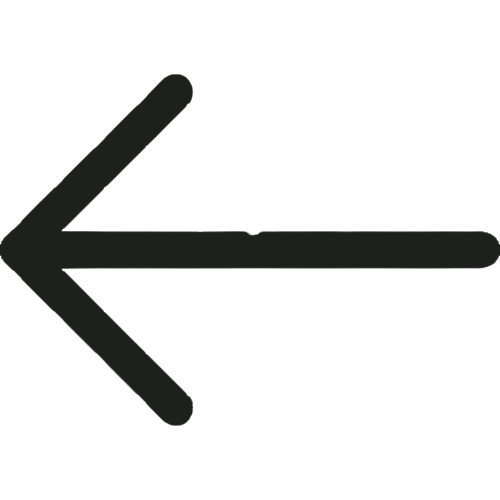
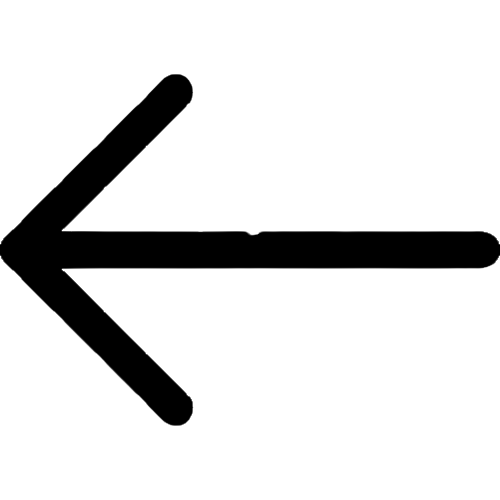
Done, all working

Changed region(s): [[0.0, 0.15, 1.0, 0.87]]

diff --git a/src/view/game_view.py b/src/view/game_view.py
@@ -3,7 +3,7 @@ from algorithms.algorithm_stats import AlgorithmStats
 
 from model.game_model import Maze, Position, Direction
 from view.view_utils import EdgeFactory, MazeEdge
-from view.view_const import BACKGROUND, COLOR, INFO, BACK_SPACE, ESC, ENTER, ROBOT, TIPS, SQUARE_WIDTH, ARROW_WIDTH, UP_ARROW, DOWN_ARROW, LEFT_ARROW, RIGHT_ARROW, BUTTON_WIDTH
+from view.view_const import GREEN, BLUE, BACKGROUND, COLOR, INFO, BACK_SPACE, ESC, ENTER, RED, ROBOT, TIPS, SQUARE_WIDTH, ARROW_WIDTH, UP_ARROW, DOWN_ARROW, LEFT_ARROW, RIGHT_ARROW, BUTTON_WIDTH
 
 class View:
     def __init__(self, surface: pygame.Surface, model = None):
@@ -48,13 +48,15 @@ class MazeView(View):
         passage: MazeEdge = EdgeFactory.no_wall()
         wall: MazeEdge = EdgeFactory.real_wall()
 
+        # pygame.draw.rect(self._surface, COLOR, pygame.Rect(self.__left, MazeView.TOP, SQUARE_WIDTH * self.model.size, SQUARE_WIDTH * self.model.size))
+
         # Starting house
         (initial_x, initial_y) = (self.model.init_robot_pos.column * SQUARE_WIDTH + self.__left, self.model.init_robot_pos.row * SQUARE_WIDTH + MazeView.TOP)
-        pygame.draw.rect(self._surface, (50, 0, 150), pygame.Rect(initial_x, initial_y, SQUARE_WIDTH, SQUARE_WIDTH))
+        pygame.draw.rect(self._surface, BLUE, pygame.Rect(initial_x, initial_y, SQUARE_WIDTH, SQUARE_WIDTH))
 
         # Ending house
         (final_x, final_y) = (self.model.final_robot_pos.column * SQUARE_WIDTH + self.__left, self.model.final_robot_pos.row * SQUARE_WIDTH + MazeView.TOP)
-        pygame.draw.rect(self._surface, (50, 150, 150), pygame.Rect(final_x, final_y, SQUARE_WIDTH, SQUARE_WIDTH))
+        pygame.draw.rect(self._surface, GREEN, pygame.Rect(final_x, final_y, SQUARE_WIDTH, SQUARE_WIDTH))
 
         # Horizontal Lines
         for i in range(self.model.size):
@@ -174,7 +176,7 @@ class GameView(View):
     def _build(self):
         self.maze_view = MazeView(self._surface, self.model[0].maze)
         self.moves_view = MovesView(self._surface, (self.model[1], self.model[0].no_moves))
-        self.buttons = [(400, 600), (450, 600), (500, 600), (550, 600), (700, 600), (750, 600), (1100, 20), (1000, 20), (900, 20)]
+        self.buttons = [(400, 650), (450, 650), (500, 650), (550, 650), (700, 650), (750, 650), (1100, 20), (1000, 20), (900, 20)]
         self.button_widths = [40, 40, 40, 40, 40, 40, 60, 60, 60]
 
     def draw_static(self):
@@ -187,16 +189,15 @@ class GameView(View):
         self.maze_view.draw_dynamic(position)
 
     def draw_win(self):
-        surface_w, surface_h = self._surface.get_size()
-        # pygame.draw.rect(self._surface, (255, 200, 255), pygame.Rect((surface_w - 400) // 2, 200, 400, 100), border_radius=50)
-        text = pygame.font.Font(None, 64).render("Maze Complete!", True, (255,0,50), BACKGROUND)
+        surface_w, _ = self._surface.get_size()
+        text = pygame.font.Font(None, 64).render("Maze Complete!", True, RED, COLOR)
         self._surface.blit(text, ((surface_w - text.get_size()[0]) // 2, 200))
 
     def draw_buttons(self):
-        inside_color_hover = (150, 150, 100)
-        inside_color_normal = (250, 250, 200)
-        color_normal = (50, 50, 50)
-        color_hover = COLOR
+        inside_color_hover = GREEN
+        inside_color_normal = BLUE
+        color_normal = COLOR
+        color_hover = (200, 200, 200)
         symbols = [UP_ARROW, DOWN_ARROW, LEFT_ARROW, RIGHT_ARROW, BACK_SPACE, ENTER, ESC, TIPS, INFO]
         for i in range(9):
             if self.mouse_in_button(i):
@@ -217,8 +218,8 @@ class GameView(View):
 
     def tips(self, tip: str):
         text = pygame.font.Font(None, 30).render(tip, True, COLOR, BACKGROUND)
-        self._surface.blit(text, (805, 105))
-        pygame.draw.rect(self._surface, COLOR, pygame.Rect(800, 100, 350, 100), width=2, border_radius=10)
+        self._surface.blit(text, (825, 105))
+        pygame.draw.rect(self._surface, COLOR, pygame.Rect(820, 100, 350, 100), width=2, border_radius=10)
 
     def instructions(self):
         text = []
@@ -233,11 +234,11 @@ class GameView(View):
         text.append(pygame.font.Font(None, 30).render(" - I or lightbulb button for tips.", True, COLOR, BACKGROUND))
         y = 105
         for sentence in text:
-            self._surface.blit(sentence, (805, y))
+            self._surface.blit(sentence, (825, y))
             y += 30
 
         
-        pygame.draw.rect(self._surface, COLOR, pygame.Rect(800, 100, 350, 300), width=2, border_radius=10)
+        pygame.draw.rect(self._surface, COLOR, pygame.Rect(820, 100, 350, 300), width=2, border_radius=10)
 
 
 

diff --git a/src/view/view_const.py b/src/view/view_const.py
@@ -4,20 +4,24 @@ import pygame_menu
 WINDOW_SIZE = (1200, 760)
 SURFACE = pygame.display.set_mode(WINDOW_SIZE)
 
-SQUARE_WIDTH = 80
+SQUARE_WIDTH = 70
 ARROW_WIDTH = 40
-BACKGROUND = (255, 255, 255)
-COLOR = (0, 0, 0)
-BACK_SPACE = pygame.transform.scale(pygame.image.load('./src/assets/img/backspace.png'), (35, 35))
+BACKGROUND = (0, 0, 0)
+COLOR = (255, 255, 255)
+BLUE = (50, 0, 150)
+GREEN = (50, 150, 150)
+RED = (250, 0, 50)
+GREY = (100, 100, 100)
+BACK_SPACE = pygame.transform.scale(pygame.image.load('./src/assets/img/backspace2.png'), (35, 35))
 ROBOT = pygame.transform.scale(pygame.image.load('./src/assets/img/robot.png'), (SQUARE_WIDTH, SQUARE_WIDTH))
-UP_ARROW = pygame.transform.scale(pygame.image.load('./src/assets/img/arrow_up.png'), (ARROW_WIDTH, ARROW_WIDTH))
-DOWN_ARROW = pygame.transform.scale(pygame.image.load('./src/assets/img/arrow_down.png'), (ARROW_WIDTH, ARROW_WIDTH))
-RIGHT_ARROW = pygame.transform.scale(pygame.image.load('./src/assets/img/arrow_right.png'), (ARROW_WIDTH, ARROW_WIDTH))
-LEFT_ARROW = pygame.transform.scale(pygame.image.load('./src/assets/img/arrow_left.png'), (ARROW_WIDTH, ARROW_WIDTH))
-ENTER = pygame.transform.scale(pygame.image.load('./src/assets/img/enter.png'), (ARROW_WIDTH, ARROW_WIDTH))
-ESC = pygame.transform.scale(pygame.image.load('./src/assets/img/esc.png'), (60, 60))
+UP_ARROW = pygame.transform.scale(pygame.image.load('./src/assets/img/arrow_up2.png'), (ARROW_WIDTH, ARROW_WIDTH))
+DOWN_ARROW = pygame.transform.scale(pygame.image.load('./src/assets/img/arrow_down2.png'), (ARROW_WIDTH, ARROW_WIDTH))
+RIGHT_ARROW = pygame.transform.scale(pygame.image.load('./src/assets/img/arrow_right2.png'), (ARROW_WIDTH, ARROW_WIDTH))
+LEFT_ARROW = pygame.transform.scale(pygame.image.load('./src/assets/img/arrow_left2.png'), (ARROW_WIDTH, ARROW_WIDTH))
+ENTER = pygame.transform.scale(pygame.image.load('./src/assets/img/enter2.png'), (ARROW_WIDTH, ARROW_WIDTH))
+ESC = pygame.transform.scale(pygame.image.load('./src/assets/img/esc2.png'), (60, 60))
 TIPS = pygame.transform.scale(pygame.image.load('./src/assets/img/light.png'), (60, 60))
-INFO = pygame.transform.scale(pygame.image.load('./src/assets/img/info.png'), (60, 60))
+INFO = pygame.transform.scale(pygame.image.load('./src/assets/img/info2.png'), (60, 60))
 BUTTON_WIDTH = 40
 THEME = pygame_menu.Theme(background_color=(0, 0, 0),
                 title_background_color=(50, 0, 150))

diff --git a/src/menu/maze_selector_menu.py b/src/menu/maze_selector_menu.py
@@ -5,7 +5,7 @@ import algorithms.algorithms
 import algorithms.heuristic
 from model.sample_mazes import SAMPLE_MAZE, MAZE_13
 from view.game_view import MazeView
-from view.view_const import SURFACE, THEME
+from view.view_const import BACK_SPACE, BACKGROUND, SURFACE, THEME
 from controller.game_controller import GameController, IAController
 
 
@@ -82,7 +82,7 @@ class MazeSelectorMenu:
         )
         ia_menu = IAController(SURFACE, self.mazes[self.__cur_maze][1], self.algorithms[self.__cur_algorithm][1]).run
         play_menu = GameController(SURFACE, self.mazes[self.__cur_maze][1], self.algorithms[self.__cur_algorithm][1]).run
-        self.__maze_surface.fill((255, 255, 255))
+        self.__maze_surface.fill(BACKGROUND)
         next_button = self.maze_selector_menu.add.button('Simulate', ia_menu)
         play_button = self.maze_selector_menu.add.button('Play', play_menu)
         maze_surface = self.maze_selector_menu.add.surface(self.__maze_surface)

diff --git a/src/menu/main_menu.py b/src/menu/main_menu.py
@@ -1,4 +1,5 @@
 import pygame_menu
+from menu.instructions_menu import IntructionsMenu
 
 from menu.maze_selector_menu import MazeSelectorMenu
 from view.view_const import THEME
@@ -9,11 +10,12 @@ class MainMenu:
         self.__main_menu = pygame_menu.Menu(
             height=window_size[1],
             width=window_size[0],
-            title='',
+            title='Main Menu',
             theme=THEME
         )
         self.__main_menu.add.image('./src/assets/img/robot_image.png', scale=(0.5, 0.5))
         self.__main_menu.add.button('Choose Map', MazeSelectorMenu(window_size).maze_selector_menu)
+        self.__main_menu.add.button('Instructions', IntructionsMenu(window_size).menu)
         self.__main_menu.add.button('Quit', pygame_menu.events.EXIT)
 
     @property

diff --git a/src/controller/game_controller.py b/src/controller/game_controller.py
@@ -32,7 +32,6 @@ class Controller:
                         quit()
                 keys = pygame.key.get_pressed()
                 if keys[pygame.K_BACKSPACE] or keys[pygame.K_ESCAPE]:
-                    print("Stop simulating")
                     return
                 
                 if maze.can_move(robot_pos, direction):
@@ -148,6 +147,7 @@ class GameController(Controller):
         for i in range(len(self._moves)):
             if self._moves[i] != self.__results.solution_state.moves[i]:
                 wrong = True
+                break
             index = i + 1
         if wrong:
             self.__game_view.tips("Change the direction number {}".format(index))

diff --git a/src/menu/instructions_menu.py b/src/menu/instructions_menu.py
@@ -1,0 +1,20 @@
+import pygame_menu
+import pygame
+
+from menu.maze_selector_menu import MazeSelectorMenu
+from view.view_const import SURFACE, THEME
+
+
+class IntructionsMenu:
+    def __init__(self, window_size):
+        self.__menu = pygame_menu.Menu(
+            height=window_size[1],
+            width=window_size[0],
+            title='Instructions',
+            theme=THEME
+        )
+        self.__menu.add.image('./src/assets/img/description.png', scale=(1, 1))
+        
+    @property
+    def menu(self):
+        return self.__menu

diff --git a/src/view/view_utils.py b/src/view/view_utils.py
@@ -1,4 +1,4 @@
-from view.view_const import COLOR
+from view.view_const import COLOR, GREY
 
 class MazeEdge:
 
@@ -22,4 +22,4 @@ class EdgeFactory:
 
     @staticmethod
     def no_wall():
-        return MazeEdge(1, (100, 100, 100))
+        return MazeEdge(1, GREY)
